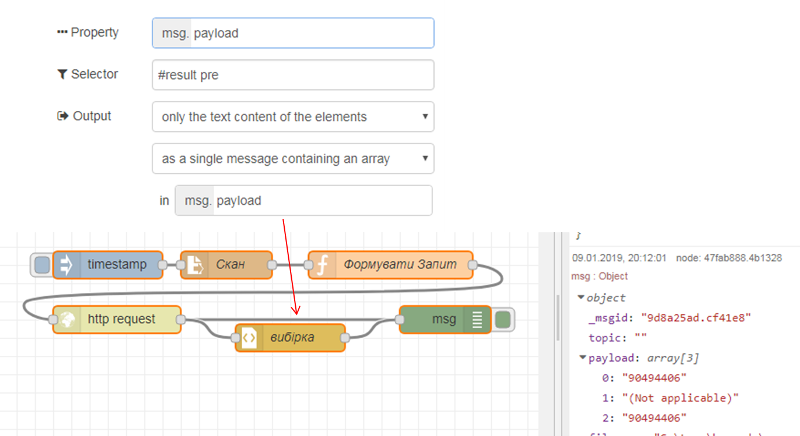
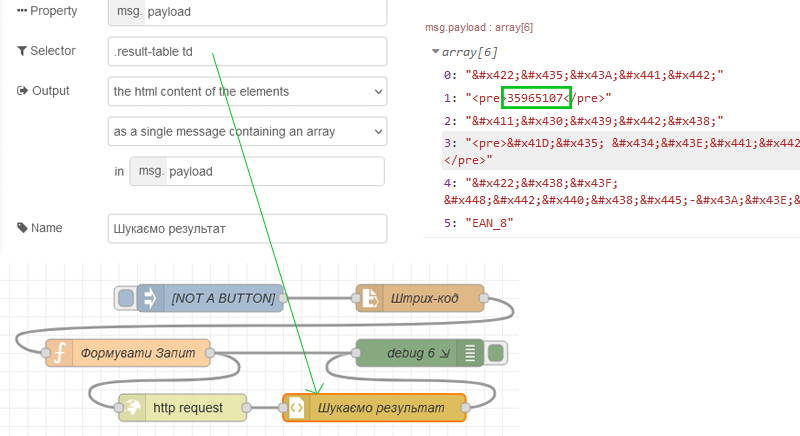
Use new service

diff --git a/Лабор/lab2_tcphttp.md b/Лабор/lab2_tcphttp.md
@@ -191,23 +191,23 @@ return msg;
 
 Для перевірки роботи протоколу HTTP, відлагодження та тестування HTML, CSS і JavaScript в завантажених сторінках використовуються різноманітні інструменти Веб-розробника (WEB Developer Tools). Деякі з них є частиною браузерів, таких як Google Chrome або Mozila FireFox. Якщо Ви звикли працювати з Google Chrome, ознайомитися з вкладками і можливостями Ви можете за наступним [посиланням](https://www.quality-assurance-group.com/oglyad-instrumentiv-rozrobnyka-u-najpopulyarnishyh-brauzerah/). У даному практичному завданні показані приклали з використанням інструментів WEB Developer Tools, що вбудовані в Mozilla FireFox. Зокрема, для аналізу і тестування HTTP запитів використовується Монітор мережі, документація українською мовою для якого доступна за [посиланням](https://developer.mozilla.org/uk/docs/Інструменти/Network_Monitor?fbclid=IwAR2UDrojQ7d6Jeu7IHzpmKv50LR-YE6BbE-JQzVtolW3aJs1_kG7WxFQuK4). 
 
-Для перевірки роботи запитів HTTP використовуватимуться сервіси сайту <https://zxing.org/w/decode.jspx>. Ці сервіси дають можливість декодувати штрих-коди та QR-коди що передаються на сайт у вигляді зображення. Слід відмітити, що є багато програм, які можуть це робити в онлайн, дана використовується тільки в якості прикладу.   
+Для перевірки роботи запитів HTTP використовуватимуться сервіси сайту <https://barcatreader.onrender.com>. Ці сервіси дають можливість декодувати штрих-коди та QR-коди що передаються на сайт у вигляді зображення. Слід відмітити, що є багато програм, які можуть це робити в онлайн, дана використовується тільки в якості прикладу.   
 
 ### 5.1. Встановлення браузера FireFox
 
 - [ ] У прикладах в лабораторній роботі використовується українська версія FireFox. Для спрощення роботи завантажте та встановіть її за наступним посиланням https://www.mozilla.org/uk/firefox/download/thanks/. При виконанні лабораторної роботи дозволяється використовувати і інші інструменти. 
 
-### 5.2. Перевірка роботи ВЕБ-застосунку https://zxing.org 
+### 5.2. Перевірка роботи ВЕБ-застосунку BarCat Reader 
 
-- [ ] Відкрийте сторінку в браузері https://zxing.org/w/decode.jspx і перевірте її роботу. Для цього завантажте будь-який файл з зображенням штрих-коду, наприклад [звідси](https://drive.google.com/open?id=1HqK3ItqtxigkonY8VWg2fHVsA_XaEwY2) (див. рис.2.11).
+- [ ] Відкрийте сторінку в браузері https://barcatreader.onrender.com/ і перевірте її роботу. Для цього завантажте будь-який файл з зображенням штрих-коду, наприклад [звідси](https://barcatreader.onrender.com/Samples) (див. рис.2.11).
 
-![рис.1](WEBAPIMedia/Рисунок1.png)                               
+![рис.1](WEBAPIMedia/barcatpreview.PNG)                               
 
-рис.2.11. Зовнішній вигляд ВЕБ-застосунку https://zxing.org 
+рис.2.11. Зовнішній вигляд ВЕБ-застосунку BarCat Reader 
 
-Натисніть «Відправити запит»,  при вдалій обробці запиту буде повернений результат з кодом, подібно до наведеного на рис.2.12.   
+Натисніть «Завантажити», оберіть файл з штрих-кодом, завантажте його та натисніть відповідну кнопку "Декодувати" при вдалій обробці запиту буде повернений результат з кодом, подібно до наведеного на рис.2.12.   
 
-![рис.2](WEBAPIMedia/Рисунок2.png) 
+![рис.2](WEBAPIMedia/success_example.PNG) 
 
 рис.2.12. Результат декодування
 
@@ -215,8 +215,8 @@ return msg;
 
 - [ ] Активуйте в браузері FireFox інструмент монітору мережі «Веб-розробка->Мережі» (CTRL+Shift+E), або аналогічний в інших браузерах. Робота з Монітором мережі описана за [посиланням](https://developer.mozilla.org/uk/docs/Інструменти/Network_Monitor?fbclid=IwAR2UDrojQ7d6Jeu7IHzpmKv50LR-YE6BbE-JQzVtolW3aJs1_kG7WxFQuK4). 
 - [ ] Виставте опцію «Вимкнути кеш» з панелі інструментів Монітору мережі. Це потрібно щоб не використовувалася інформація в кеші на Вашому ПК. 
-- [ ] Відкрийте в браузері сторінку <https://zxing.org>. 
-- [ ] Проконтролюйте, щоб мережних запитів було 5. Якщо це не так - зробіть оновлення сторінки браузера іі знову впишіть вказану адресу.
+- [ ] Відкрийте в браузері сторінку <https://barcatreader.onrender.com/>. 
+- [ ] Проконтролюйте, щоб мережних запитів було 9. Якщо це не так - зробіть оновлення сторінки браузера іі знову впишіть вказану адресу.
 - [ ] Подивіться список мережних запитів, які були зроблені при завантаженні сторінки, зокрема зверніть увагу на наступні значення:
   - скільки запитів було зроблено
   - які методи (спосіб) та типи запитів
@@ -240,10 +240,10 @@ return msg;
 | [Accept-Language](https://developer.mozilla.org/uk/docs/Web/HTTP/Заголовки/Accept-Language) | uk-UA,uk;q=0.8,en-US;q=0.5,en;q=0.3                          |                                   |
 | Cache-Control                                                | no-cache                                                     |                                   |
 | Connection                                                   | keep-alive                                                   |                                   |
-| Host                                                         | zxing.org                                                    |                                   |
+| Host                                                         | barcatreader.onrender.com                                                    |                                   |
 | Pragma                                                       | no-cache                                                     |                                   |
 | Upgrade-Insecure-Requests                                    | 1                                                            |                                   |
-| User-Agent                                                   | Mozilla/5.0 (Windows NT 10.0; …) Gecko/20100101 Firefox/64.0 |                                   |
+| User-Agent                                                   | Mozilla/5.0 (Windows NT 10.0; Win64; x64; rv:109.0) Gecko/20100101 Firefox/116.0 |                                   |
 
 ![рис.4](WEBAPIMedia/Рисунок4.png)  
 
@@ -255,7 +255,7 @@ return msg;
 
 | **Заголовок**                                                | **Значення**   | **Пояснення  значень заголовків** |
 | ------------------------------------------------------------ | -------------- | --------------------------------- |
-| [Location](https://developer.mozilla.org/uk/docs/Web/HTTP/Заголовки/Location) | /w/decode.jspx |                                   |
+| [Location](https://developer.mozilla.org/uk/docs/Web/HTTP/Заголовки/Location) | / |                                   |
 
 ![рис.5.](WEBAPIMedia/Рисунок5.png)  
 
@@ -267,7 +267,7 @@ return msg;
 
 | **№** | **Запит (метод,** **URL**) | **Пояснення до запиту,  ініціатор**                      | **Відповідь (стан –  пояснення )** | **Пояснення до відповіді** |
 | ----- | -------------------------- | -------------------------------------------------------- | ---------------------------------- | -------------------------- |
-| 1     | GET https://zxing.org/     | Запит на документ, ініціював користувач в рядку браузеру | 301 - ???                          |                            |
+| 1     | GET https://barcatreader.onrender.com/     | Запит на документ, ініціював користувач в рядку браузеру | 200 - ???                          |                            |
 | 2     | ...                        |                                                          |                                    |                            |
 
 ### 5.5. Аналіз заголовків інших мережних запитів та відповідей
@@ -291,7 +291,7 @@ return msg;
 ### 5.6. Аналіз заголовків та змісту POST
 
 - [ ] Використовуючи кнопку «Очистити» (зображення відерка) що знаходиться на панелі інструментів Монітору мережі, очистіть список запитів. 
-- [ ] Завантажте будь-який файл з зображенням штрих-коду, як робили це в п.5.2. Натисніть «Відправити запит». При вдалій обробці запиту буде повернений результат з кодом. 
+- [ ] Завантажте будь-який файл з зображенням штрих-коду, як робили це в п.5.2. Натисніть «Декодувати». При вдалій обробці запиту буде повернений результат з кодом. 
 
 - [ ] Використовуючи подробиці мережного запиту [POST](https://developer.mozilla.org/uk/docs/Web/HTTP/Methods/POST) продивіться та проаналізуйте Заголовки. Зробіть копію екранів з заголовками та впишіть пояснення в таблиці 2.4. Для пришвидшення пошуку призначення заголовків користуйтесь посиланнями, що прив’язані до назв заголовків. Про типи MIME можна прочитати [тут](https://developer.mozilla.org/uk/docs/Web/HTTP/Basics_of_HTTP/MIME_types). 
 
@@ -318,12 +318,12 @@ return msg;
 
 ## 6. Реалізація клієнта HTTP в Node-RED
 
-В даній частині практичного завдання необхідно в Node-RED розробити програму для визначення штрих-коду по зображенню, використовуючи сервіси <https://zxing.org> . Для розуміння цієї частини лабораторної знадобляться результати, отримані в п.5. 
+В даній частині практичного завдання необхідно в Node-RED розробити програму для визначення штрих-коду по зображенню, використовуючи сервіси <https://barcatreader.onrender.com/> . Для розуміння цієї частини лабораторної знадобляться результати, отримані в п.5. 
 
 ### 6.1. Підготовчі роботи
 
 - [ ] На диску `C:\` створіть директорію «Temp», якщо вона ще не існує. 
-- [ ] Скопіюйте в папку `C:\Temp\barcods` файл з зображенням штрих-коду, що використовувався в попередній частині, наприклад взятий [звідси](https://drive.google.com/open?id=1HqK3ItqtxigkonY8VWg2fHVsA_XaEwY2). 
+- [ ] Скопіюйте в папку `C:\Temp\barcods` файл з зображенням штрих-коду, що використовувався в попередній частині, наприклад взятий [звідси](https://barcatreader.onrender.com/Samples). 
 
 ### 6.2. Читання файлу
 
@@ -345,7 +345,30 @@ return msg;
 
 Для формування запиту необхідно сформувати на вході вузла `HTTP request` його заголовки та тіло. З попередньої частини роботи видно, що для отримання штрих-коду по зображенню необхідно сформувати запит з методом POST, який буде багато-частинним, тобто складатися з розділів, що відокремлюються межами. У даному випадку розділ є тільки один, який включає вміст файлу зображення.  
 
-- [ ] Для пришвидшення виконання роботи імпортуйте в потік підготовлений вузол «Формувати запит», файл імпорту завантажте [звідси](https://drive.google.com/open?id=1d1xujfMU5Z50m6xxTpjJ_f0i_QzuNFhz), скопіюйте текст і імпортуйте в потік через меню імпорту. 
+- [ ] Для пришвидшення виконання роботи імпортуйте в потік підготовлений вузол «Формувати запит», скопіюйте код нижче і імпортуйте в потік через меню імпорту. 
+```json
+[
+    {
+        "id": "d0f382da.60357",
+        "type": "function",
+        "z": "89f03cbbbd325148",
+        "name": "Формувати Запит",
+        "func": "//формування корисного навантаження для POST\n//складається зі статичного тексту з описом розділу\n//та змісту розділу, який є типом image/jpeg що береться з файлу\n//деталі - https://developer.mozilla.org/uk/docs/Web/HTTP/Basics_of_HTTP/MIME_types#multipartform-data \nvar tmp1;//верхня частина - початок розділу\nvar tmp2;//нижня частина - закінчення розділу\ntmp1 = '-----------------------------12818302946532\\r\\n';//межа початку розділу\ntmp1 += 'Content-Disposition: form-data; name=\"file\"; filename=\"1.jpg\"\\r\\n';//заголовок розділу\ntmp1 += 'Content-Type: image/jpeg\\r\\n\\r\\n';//заголовок розділу\ntmp2 = '\\r\\n-----------------------------12818302946532--';//межа кінця розділу\nvar buf1 = Buffer.from(tmp1);//перетворення тексту в бінарний буфер\nvar buf3 = Buffer.from(tmp2);//перетворення тексту в бінарний буфер\nvar ar =[buf1, msg.payload, buf3];//об'єднання буферів та вмісту файлу в один масив\nmsg.payload =  Buffer.concat(ar);//перетворення масиву в один буфер\n\n//формування заголовків запиту\nmsg.headers = {};//об'явили як об'єкт\nmsg.headers[\"host\"] = \"barcatreader.onrender.com\";\nmsg.headers[\"Accept-Encoding\"] = \"identity\";\nmsg.headers[\"accept\"] = \"text/html,application/xhtml+xml,application/xml;q=0.9,*/*;q=0.8\";\nmsg.headers[\"content-type\"]= \"multipart/form-data; boundary=---------------------------12818302946532\";\nvar len = msg.payload.length;//визначаємо довжину тіла запиту\nmsg.headers[\"content-length\"] = len.toString();//перетворюємо в текст \nmsg.headers[\"referer\"] = \"https://barcatreader.onrender.com/decode\";\nmsg.headers[\"connection\"] = \"keep-alive\";\nmsg.headers[\"upgrade-insecure-requests\"] = 1;\nreturn msg;//повідомлення для відправки методом POST",
+        "outputs": 1,
+        "noerr": 0,
+        "initialize": "",
+        "finalize": "",
+        "libs": [],
+        "x": 150,
+        "y": 560,
+        "wires": [
+            [
+                "dc4e554a946d0ea7"
+            ]
+        ]
+    }
+]
+```
 - [ ] Уважно ознайомтеся з вмістом функції. 
 - [ ] Модифікуйте програму, як це показано на рис.2.15. 
 
@@ -373,7 +396,7 @@ return msg;
 
 - [ ] Для витягування потрібних елементів з HTML-контенту в Node-RED використовується вузол `HTML`. Ознайомтеся з його роботою з [довідника](https://pupenasan.github.io/NodeREDGuidUKR/parsing/html.html).
 
-- [ ] З розділу `parser` палітри вузлів вставте `HTML`. Модифікуйте програму, як це показано на рис.2.17. Селектор вибирає елемент HTML з ID=”result” у якого вибирає усі-елементи нащадки з тегом «pre».
+- [ ] З розділу `parser` палітри вузлів вставте `HTML`. Модифікуйте програму, як це показано на рис.2.17. Селектор вибирає елемент HTML з class=”result-table” у якого вибирає усі-елементи нащадки з тегом «td».
 
 ![рис.9.](WEBAPIMedia/Рисунок9.png) 
 
